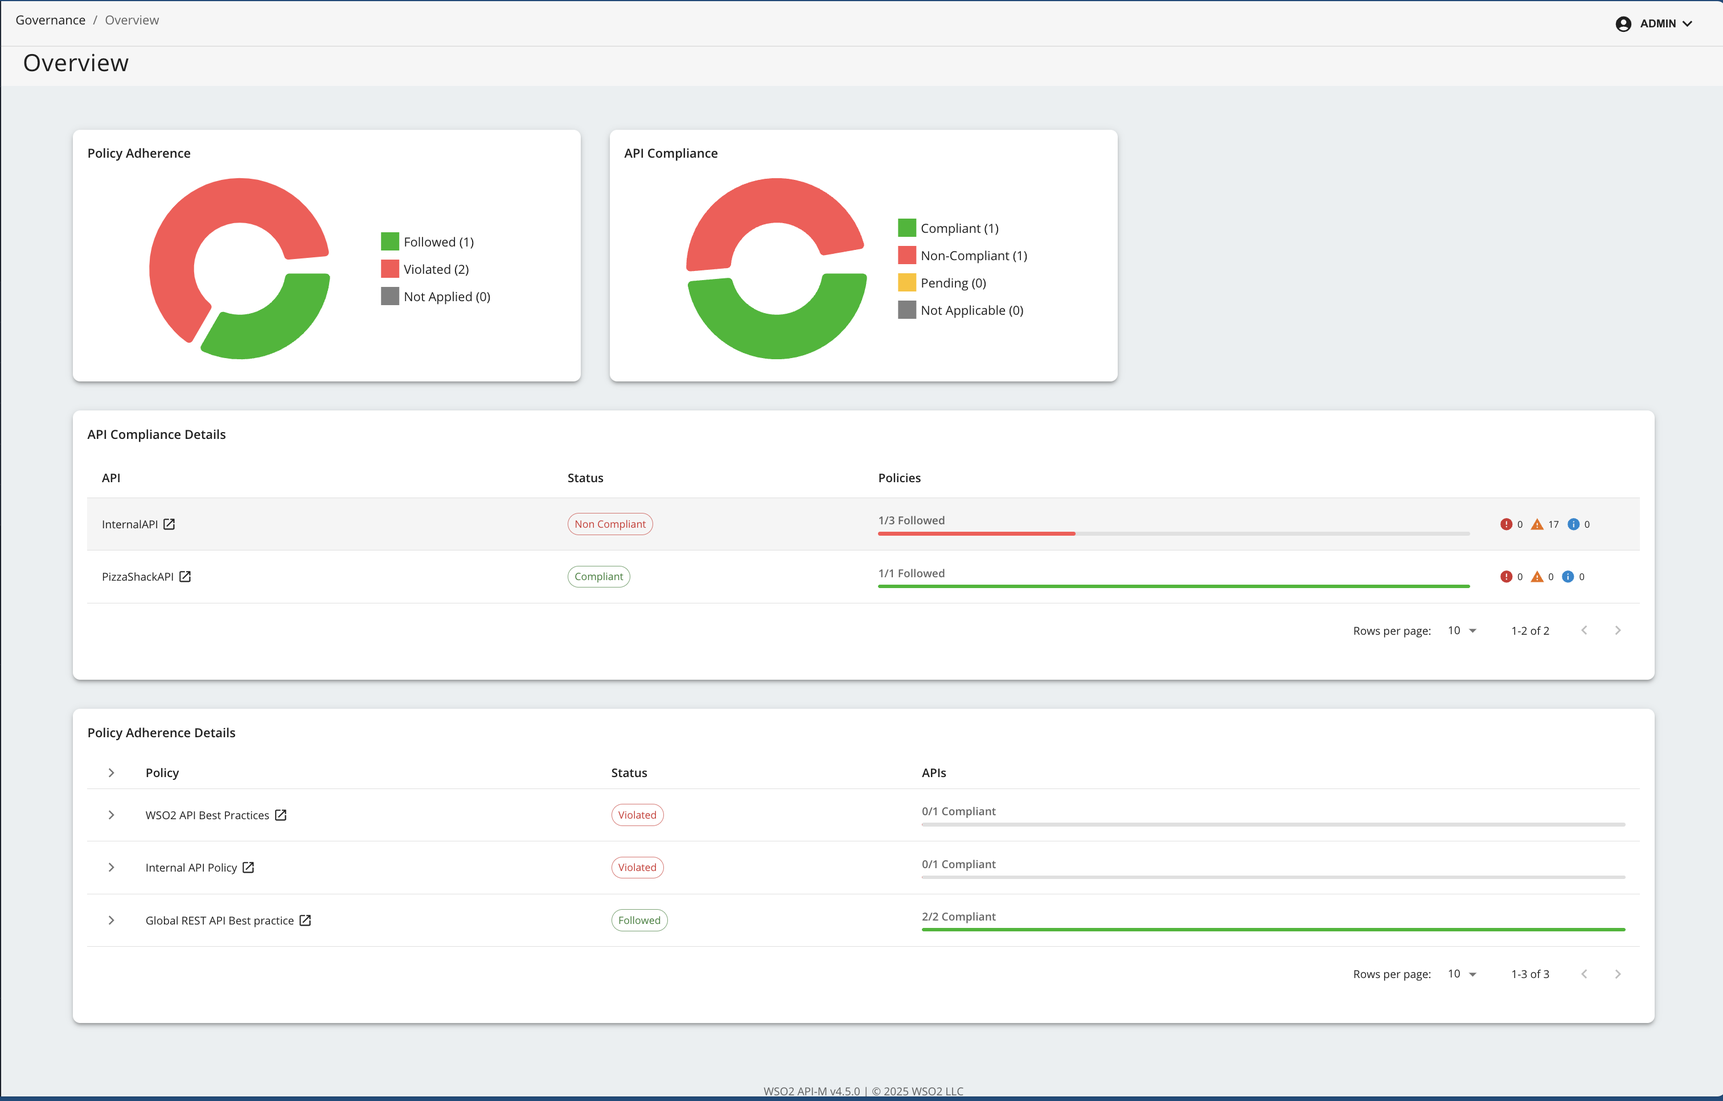
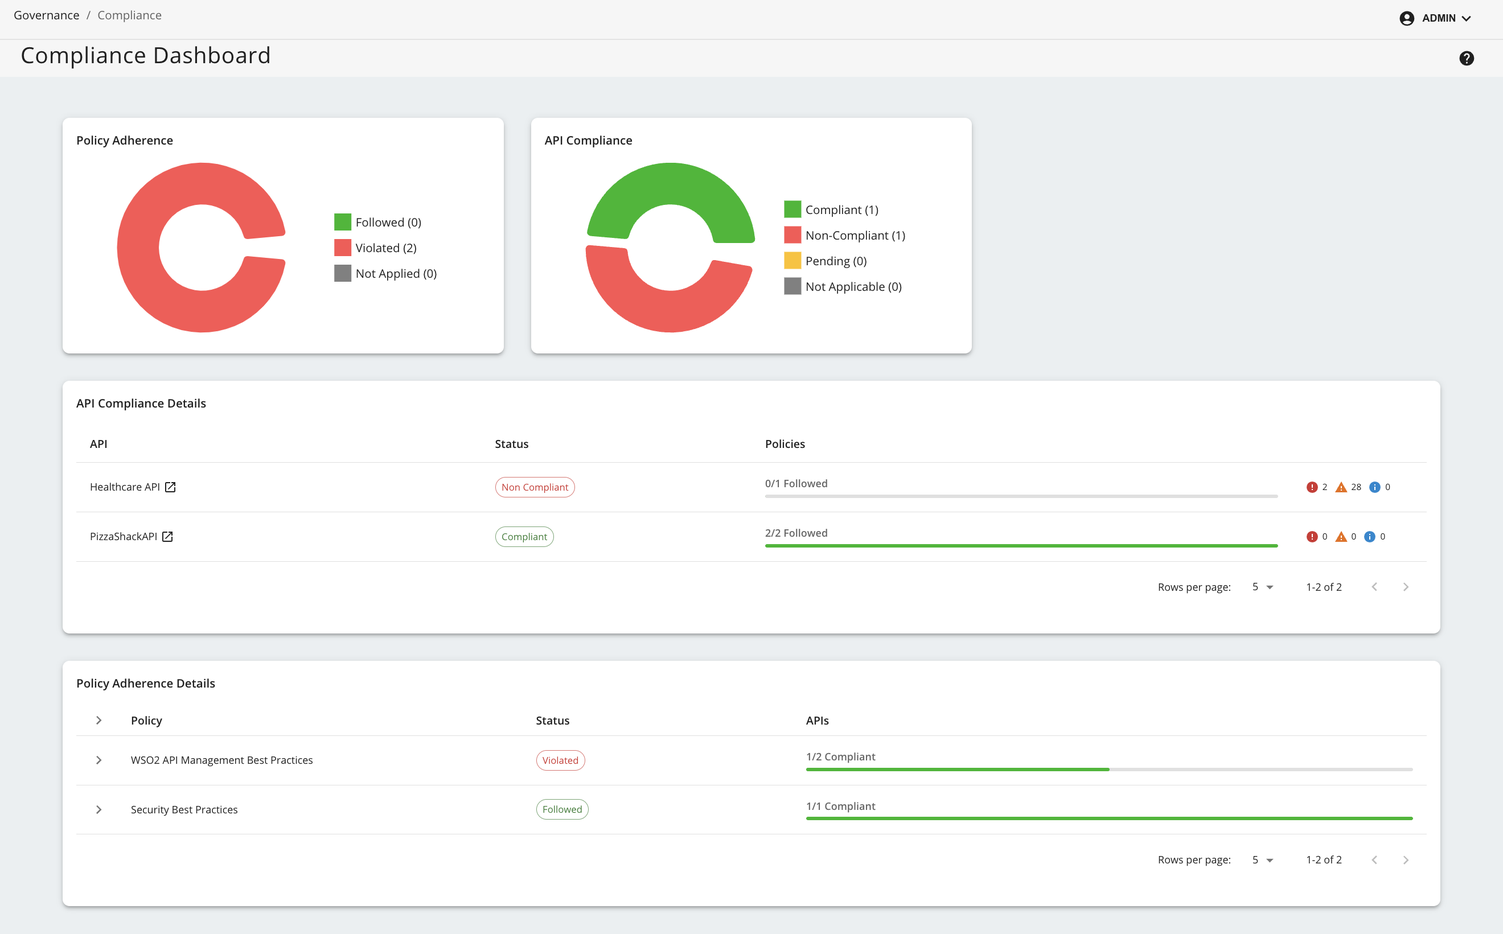
Update governance docs

diff --git a/en/docs/governance/api-governance-admin-capabilities.md b/en/docs/governance/api-governance-admin-capabilities.md
@@ -1,7 +1,4 @@
-Governance Administrative Capabilities
---------------------------------------
-
-API Management Governance provides the following administrative capabilities to manage rulesets and policies
+WSO2 API Manager provides organization administrators the following administrative capabilities to manage rulesets and policies for API governance.
 
 ### Create and Manage Rulesets
 
@@ -11,79 +8,102 @@ The **Rulesets Catalog** provides a list of predefined governance rulesets that 
 2. Go to the **Governance** section in the main menu.  
 3. Click **Rulesets Catalog** to view all available rulesets.  
 
-<a href="{{base_path}}/assets/img/governance/ruleset_view.png">
-  <img src="{{base_path}}/assets/img/governance/ruleset_view.png" alt="APIM Governance Ruleset View"/>
+<a href="../../assets/img/governance/ruleset_view.png">
+  <img src="../../assets/img/governance/ruleset_view.png" alt="APIM Governance Ruleset View"/>
 </a>
 
-#### Create a new Ruleset
+#### Create a New Ruleset
 
 To create a new ruleset, click on the **Create Ruleset**. When creating a new ruleset, you need to provide the following information:
 
-| Field Name | Description                                                                                                                                                                  | Mandatory | Options/Values |
-|------------|------------------------------------------------------------------------------------------------------------------------------------------------------------------------------|-----------|----------------|
-| Name | The name of the ruleset.                                                                                                                                                     | Yes | - |
-| Description | A brief description of the ruleset.                                                                                                                                          | No | - |
-| Documentation Link | A link to the documentation of the ruleset.                                                                                                                                  | No | - |
-| Ruleset Type | The type of the ruleset.                                                                                                                                                     | Yes | API Definition, API Metadata, Documentation |
-| Artifact Type | The type of the API.                                                                                                                                                         | Yes | REST API, Async API |
-| Ruleset Content | Define the ruleset content using the **Spectral-like format**. You can either write the rules manually or upload a pre-written ruleset file. The spec to write the ruleset can be access via [WSO2 rule validator documentation]({{base_path}}/governance/rule-validator/rule-validator) | Yes | - |
+| Field Name | Description                                                                                                                                                                                                                       | Mandatory | Options/Values |
+|------------|-----------------------------------------------------------------------------------------------------------------------------------------------------------------------------------------------------------------------------------|-----------|----------------|
+| Name | The name of the ruleset.                                                                                                                                                                                                          | Yes | - |
+| Description | A brief description of the ruleset.                                                                                                                                                                                               | No | - |
+| Documentation Link | A link to the documentation of the ruleset.                                                                                                                                                                                       | No | - |
+| Ruleset Type | The type of the ruleset.                                                                                                                                                                                                          | Yes | API Definition, API Metadata, Documentation |
+| Artifact Type | The type of the API.                                                                                                                                                                                                              | Yes | REST API, Async API |
+| Ruleset Content | Refer [Writing Your Own Ruleset](#writing-your-own-ruleset) section. Define the ruleset content using the **Spectral-like format**. You can either write the rules manually or upload a pre-written ruleset YAML or JSON file. | Yes | - |
+
 
 After providing the required information, click on the **Create** button to create the ruleset.
 
-<a href="{{base_path}}/assets/img/governance/ruleset_create.jpg">
-  <img src="{{base_path}}/assets/img/governance/ruleset_create.jpg" alt="APIM Governance Ruleset Create"/>
+<a href="../../assets/img/governance/ruleset_create.png">
+  <img src="../../assets/img/governance/ruleset_create.png" alt="APIM Governance Ruleset Create" width="60%"/>
 </a>
+
+#### Writing Your Own Ruleset
+
+Please refer to the [WSO2 Rule Validator Documentation]({{base_path}}/governance/rule-validator/rule-validator) to understand the ruleset format and how to write your own ruleset.
+
+- If Ruleset Type is selected as **API Definition**, the ruleset should only contain rules that can be validated against the API definition file (OpenAPI or AsyncAPI).
+- If Ruleset Type is selected as **API Metadata**, the ruleset should only contain rules that can be validated against the [API's YAML Representation](). This representation is common for REST and Async APIs.
+- If Ruleset Type is selected as **Documentation**, the ruleset should only contain rules that can be validated against the [Documentation YAML Representation](). This representation is common for REST and Async APIs.
+
+#### Default Rulesets
+
+WSO2 API Manager comes with a set of default rulesets that cover common governance aspects such as security, compliance, and performance. These rulesets can be used as-is or customized to meet specific organizational requirements. These include,
+
+1. **[WSO2 API Management Guidelines]({{base_path}}/reference/governance/wso2-api-management-guidelines)** - An API Metadata ruleset that applies to REST APIs and covers general API management guidelines.
+2. **[WSO2 REST API Design Guidelines]({{base_path}}/reference/governance/wso2-rest-api-design-guidelines)** - An API Definition ruleset that applies to REST APIs and covers design best practices.
+3. **[OWASP Top 10]({{base_path}}/reference/governance/owasp-top-10)** - An API Definition ruleset that applies to REST APIs and covers best practices for securing APIs against OWASP Top 10 vulnerabilities.
 
 ### Create and Manage Policies
 
-Policies define governance rules that enforce security, compliance, and performance standards for APIs. Follow these steps to create and manage policies:  
+The **Policies** section in the **API Manager Admin Portal** provides a list of governance policies that can be enforced on APIs. Follow these steps to access the policies section and explore available policies. 
 
 1. Navigate to the **Governance** section in the **API Manager Admin Portal**.  
 2. Click **Policies** to view the list of available policies.  
 
-<a href="{{base_path}}/assets/img/governance/policy_view.png">
-  <img src="{{base_path}}/assets/img/governance/policy_view.png" alt="APIM Governance Ruleset Create"/>
+<a href="../../assets/img/governance/policy_view.png">
+  <img src="../../assets/img/governance/policy_view.png" alt="APIM Governance Ruleset Create"/>
 </a>
 
 #### Create a new Policy
 
 To create a new policy, click the **Create Policy** button and provide the following details:  
 
-| Field Name | Description                                  | Mandatory | Options/Values                                                                                                                                           |
-|------------|----------------------------------------------|-----------|----------------------------------------------------------------------------------------------------------------------------------------------------------|
-| Name | The name of the policy.                      | Yes | -                                                                                                                                                        |
-| Description | A brief description of the policy.           | No | -                                                                                                                                                        |
-| Attachment | The way the policy is attached to the APIs.  | Yes | All APIs, APIs with specific labels, None                                                                                                                |
-| Enforcement | The detail of the policy enforcement criteria.        | Yes | **Governed State** <br/> API Create, API Update, API Deploy, API Publish <br/> **Severity Levels** <br/> Error, Warn, Info <br/> **Actions** <br/> Notify, Block |
-| Ruleset | The rulesets that is attached to the policy. | Yes | -                                                                                                                                                        |
+| Field Name  | Description                                    | Mandatory | Options/Values                                                                                                                                                 |
+|-------------|------------------------------------------------|-----------|----------------------------------------------------------------------------------------------------------------------------------------------------------------|
+| Name        | The name of the policy.                        | Yes | -                                                                                                                                                              |
+| Description | A brief description of the policy.             | No | -                                                                                                                                                              |
+| Attachment  | The way the policy is attached to the APIs.    | Yes | All APIs (REST and ASYNC) <br/> APIs with specific labels<br/> None                                                                                            |
+| Enforcement | The detail of the policy enforcement criteria. | Yes | **When to Enforce** <br/> API Create, API Update, API Deploy, API Publish <br/> **Actions to Take** (based on severity of rule violations) <br/> Notify, Block |
+| Rulesets    | The list rulesets included in the policy.      | Yes | -                                                                                                                                                              |
+
 
 After providing the required information, click on the **Create** button to create the policy.
 
-<a href="{{base_path}}/assets/img/governance/policy_create.jpg">
-  <img src="{{base_path}}/assets/img/governance/policy_create.jpg" alt="APIM Governance Ruleset Create"/>
+<a href="../../assets/img/governance/policy_create.png">
+  <img src="../../assets/img/governance/policy_create.png" alt="APIM Governance Policy Create" width="60%" />
 </a>
 
+#### Default Policies
+
+WSO2 API Manager comes with a default governance policy named **WSO2 API Management Best Practices**. This policy is a high-level policy that includes the **WSO2 API Management Guidelines** ruleset. This policy can be used as-is or customized to meet specific organizational requirements. 
+
+It includes, **[WSO2 API Management Guidelines](reference/governance/wso2-api-management-guidelines.md)** ruleset and **[WSO2 REST API Design Guidelines](reference/governance/wso2-rest-api-design-guidelines.md)** ruleset.
 
 ### Compliance Monitoring
 
-Compliance monitoring is a key aspect of API governance. It ensures that APIs adhere to the defined governance policies and rulesets. The **Compliance Monitoring Dashboard** provides a comprehensive view of the compliance status of APIs. Follow these steps to access the dashboard:
+Compliance monitoring is a key aspect of API governance. It ensures that APIs adhere to the defined governance policies and rulesets. The **Compliance Dashboard** provides a comprehensive view of the compliance status of APIs. Follow these steps to access the dashboard:
 
 1. Log in to the **API Manager Admin Portal**.
 2. Go to the **Governance** section in the main menu.
-3. Click **Overview** to view the compliance status of APIs.
+3. Click **Compliance** to view the compliance status of APIs.
 
-<a href="{{base_path}}/assets/img/governance/admin_compliance.png">
-  <img src="{{base_path}}/assets/img/governance/admin_compliance.png" alt="APIM Governance Ruleset Create"/>
+<a href="../../assets/img/governance/admin_compliance.png">
+  <img src="../../assets/img/governance/admin_compliance.png" alt="APIM Governance Compliance Dashboard"/>
 </a>
 
 #### **Policy Adherence**
 
-This widget gives a summary of the policies deployed in the system with a breakdown of the number of policies that are adhered to, violated and not applied to any APIs.
+This widget gives a summary of the policies deployed in the system with a breakdown of the number of policies that are followed, violated and not applied to any APIs.
 
 
 #### **API Compliance**
 
-This widget provides a summary of the compliance status of APIs with a breakdown of the number of APIs that are compliant, non-compliant, Pending compliant results, and not applied to any policies.
+This widget provides a summary of the compliance status of APIs with a breakdown of the number of APIs that are compliant, non-compliant, pending compliant results, and not applied to any policies.
 
 #### **API Compliance Details**
 
@@ -93,7 +113,9 @@ This widget provides a detailed overview of an API's compliance status, includin
 
 This widget offers a detailed overview of each policy's compliance, including the overall policy status and the compliance status of each API governed by the policy.  
 
-By clicking on the each API listed in this widgets, an API compliance summary page will be displayed. This page provides a detailed view of the compliance status of the API with a breakdown of the compliance status of each policy attached to the API. 
+#### API-Specific Compliance View
+
+By clicking on each API listed in [API Compliance Details](###api-compliance-details) widget, an API compliance page will be displayed. This page provides a detailed view of the API's compliance status, including a breakdown of the compliance status for each policy attached to the API.
 
 
 

diff --git a/en/docs/governance/governance-concept.md b/en/docs/governance/governance-concept.md
@@ -1,68 +1,73 @@
 # Governance Concepts
-API Management Governance build on the following concepts
+
+The governance capabilities in WSO2 API Manager builds upon the following core concepts:
+
+## Artifact
+
+Entity that is subject to governance enforcement. In the context of API governance, the governance artifact is an API.
 
 ## Ruleset
-A ruleset is a collection of rules that define governance policies to be enforced on APIs. These rules cover various aspects of API management, including security, compliance, performance, and operational guidelines. Rulesets can be defined at the organization level and later applied through policies to ensure governance enforcement.
+A ruleset is a **collection of rules** that define governance policies to be enforced on [governance artifacts](#Artifact). 
 
-Each ruleset must have a unique name and may include a description to provide additional context. Rulesets are used to validate specific aspects of an API, including:
+In the context of API governance, these rules cover various aspects of API management, including security, compliance, performance, and operational guidelines. Rulesets can be defined at the organization level and later applied through policies to ensure governance enforcement.
+
+Each ruleset must have a **unique name** and may include a description for additional context. It is **bound to a specific API type (REST, Async)** and is used to **validate specific aspects of an API**, including:
 
 - **API Definition** – The OpenAPI or AsyncAPI definition that establishes the API contract.
-- **API Metadata** – Information about the API, such as name, version, context, and other details.
+- **API Metadata** – WSO2 API Manager's interpretation of an API, encompassing general information such as name and 
+  version, along with API management-specific details such as mediation policies in use, security configurations, 
+  business plans, etc.
 - **API Documentation** – Documentation that provides usage guidelines and other relevant information about the API.
 
-When defining a ruleset, the API type must be specified. Supported API types include:
-
-- **REST API**
-- **Async API**
-
-## Policy
-
-A **policy** is a set of rulesets that define governance policies to be enforced on APIs. Policies can be created at the organization level and later applied to APIs to enforce security, compliance, performance, and other governance requirements. Policies act as high-level groupings of rules and can be used to categorize APIs, such as external APIs, internal APIs, and partner APIs.
-
-Each policy must have a **unique name** and may include a **description** to provide additional context.
-
-#### Policy Attachment and Labeling
-
-Policies can be attached to one or more **labels** to categorize them effectively. Labels serve as a link between policies and APIs when a policy is assigned to a label, it is automatically applied to all APIs associated with that label.
-
-#### Policy Enforcement
-
-Policy enforcement is an integral part of policy definition and can be categorized into three types:
-
-#### 1. Policy Enforcement on APIs
-
-Policies can be enforced on sevaral stages of API. Enforcement occurs when an API transitions into a specific state. The supported states include:
-
-- **Create**
-- **Update**
-- **Publish**
-- **Deploy**
-
-#### 2. Rule Violation Level
-
-Policies can be enforced based on the severity of rule violations. The supported levels include:
+Rules within a ruleset can have different **severity levels**, such as:
 
 - **Error** – Indicates a critical violation.
 - **Warn** – Indicates a warning that requires attention.
 - **Info** – Provides informational messages about compliance.
 
-#### 3. Rule Violation Action
+## Policy
 
-Policies define actions to be taken when a rule violation is detected. The supported actions include:
+A policy is a **collection of rulesets** that can be enforced on [governance artifacts](#Artifact) to ensure governance compliance.
 
-- **Block** – Prevents the API operation. This can only be enforced during the **Publish** and **Deploy** state transitions.
-- **Notify** – Alerts users about the violation. Notifications appear in compliance dashboards, allowing users to review and take necessary actions.
+In the context of API governance, policies can be created at the organization level and applied to APIs to enforce governance requirements. They also provide the capability to apply different governance rulesets to different groups of APIs based on organizational needs.
+
+Each policy must have a **unique name** and may include a **description** to provide additional context.
+
+#### Policy Attachment
+
+Policies can be attached to one or more **[labels](#label)** to categorize them effectively. Labels serve as a link between policies and APIs when a policy is assigned to a label, it is automatically applied to all APIs associated with that label.
+
+#### Policy Enforcement Criteria
+
+The policy enforcement criteria define when a policy should be applied and what actions should be taken if a policy violation occurs.
+
+#### 1. When to Enforce
+
+Policies can be triggered at different points in the API lifecycle. The enforcement happens when an API transitions to a specific state. The stages where enforcement can occur include:
+
+- **API Create**
+- **API Update**
+- **API Deploy**
+- **API Publish**
+
+#### 2. What to Do
+
+Policies can be configured to take specific actions based on the severity of rule violations. The available actions include:
+
+- **Block** – Prevents the API operation from proceeding. This action can only be enforced during the **Publish** and **Deploy** stages.
+- **Notify** – Sends alerts to users about the violation. Notifications appear in compliance dashboards, allowing users to review and resolve the issue.
 
 ## Label  
 
-A **label** is a tag that can be attached to APIs to categorize them based on specific criteria. Labels help group APIs according to their type, purpose, or any other classification relevant to the organization.  
+A **label** is a tag that can be attached to a specific [governance artifact](#Artifact) to categorize them based on specific criteria. 
 
-### Label Usage  
+In the context of API governance, labels help group APIs according to their type, purpose, or any other classification relevant to the organization.  
+
+#### Label Usage  
 
 Labels can be used to:  
 
 - Organize APIs into meaningful categories.  
 - Apply policies to APIs based on their category.  
 
-When a label is attached to a policy, tha policy automatically applied to all APIs associated with that label.  
-
+When a label is attached to a policy, that policy is automatically applied to all APIs associated with that label.

diff --git a/en/docs/governance/overview.md b/en/docs/governance/overview.md
@@ -1,8 +1,8 @@
 # WSO2 API Management Governance
 
-API Management Governance consists of a set of processes, practices, roles, and responsibilities designed to ensure the effective and efficient management of APIs throughout their lifecycle. Establishing a governance strategy is essential for maintaining consistency, security, and compliance in API development, management, and consumption.
+Governing how APIs are managed throughout their lifecycle has become a critical priority for many modern organizations. It encompasses a set of processes, practices, roles, and responsibilities aimed at ensuring the effective and efficient management of APIs. Establishing a governance strategy is essential for maintaining consistency, security, and compliance in API development, management, and consumption.
 
-Implementing API governance provides the following benefits:
+Such a governance strategy provides the following benefits:
 
 - **Security and Compliance** – Enforces authentication, authorization, and regulatory compliance requirements.
 - **Consistency** – Standardizes API design, documentation, and versioning to maintain uniformity.
@@ -12,4 +12,4 @@ Implementing API governance provides the following benefits:
 - **Discoverability and Reusability** – Facilitates API cataloging and reuse to minimize redundant development efforts.
 - **Business Agility** – Accelerates API delivery, helping organizations meet customer and partner needs efficiently.
 
-This section outlines the governance features available in WSO2 API Manager and provides guidance on how to use them for effective API management.
+WSO2 API Manager provides a range of governance capabilities, and this section outlines how to use them for effective API management
